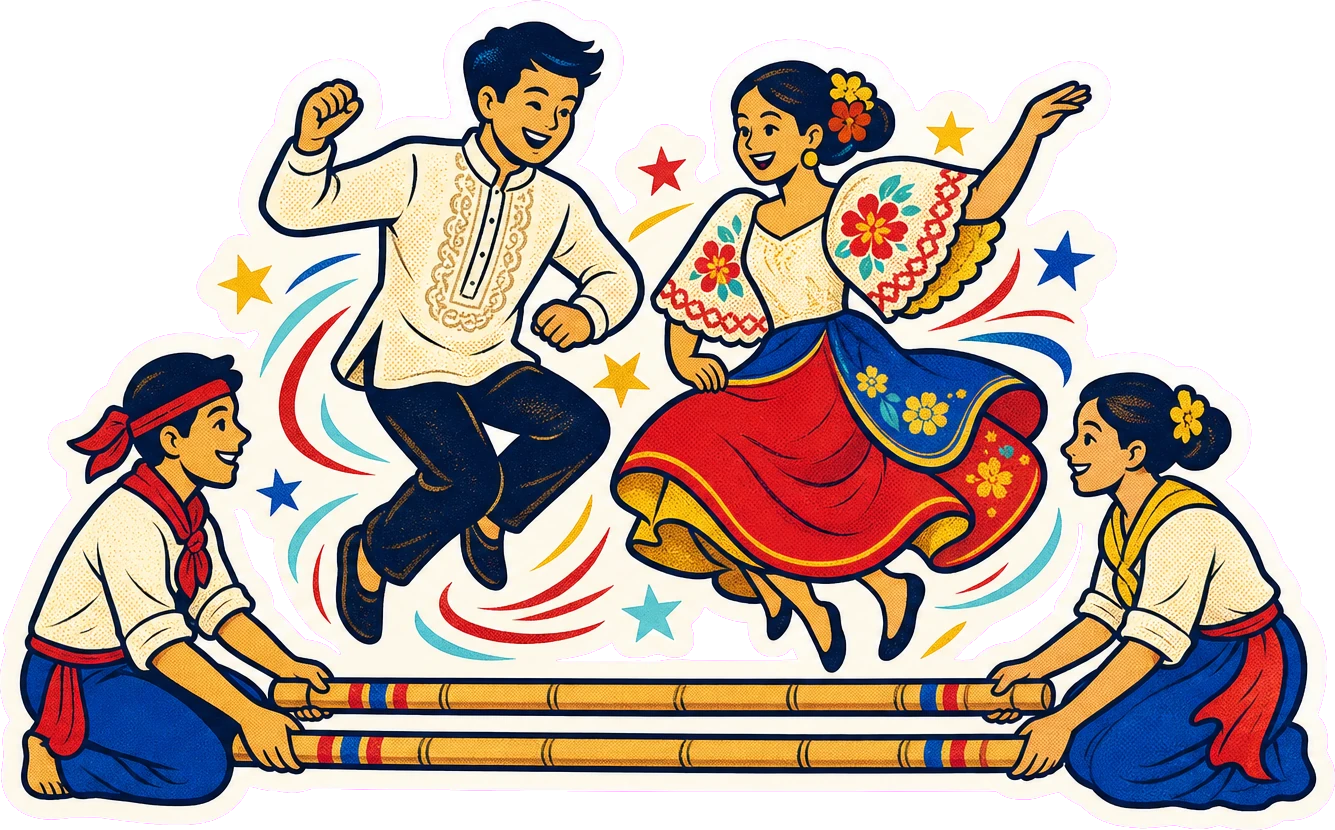
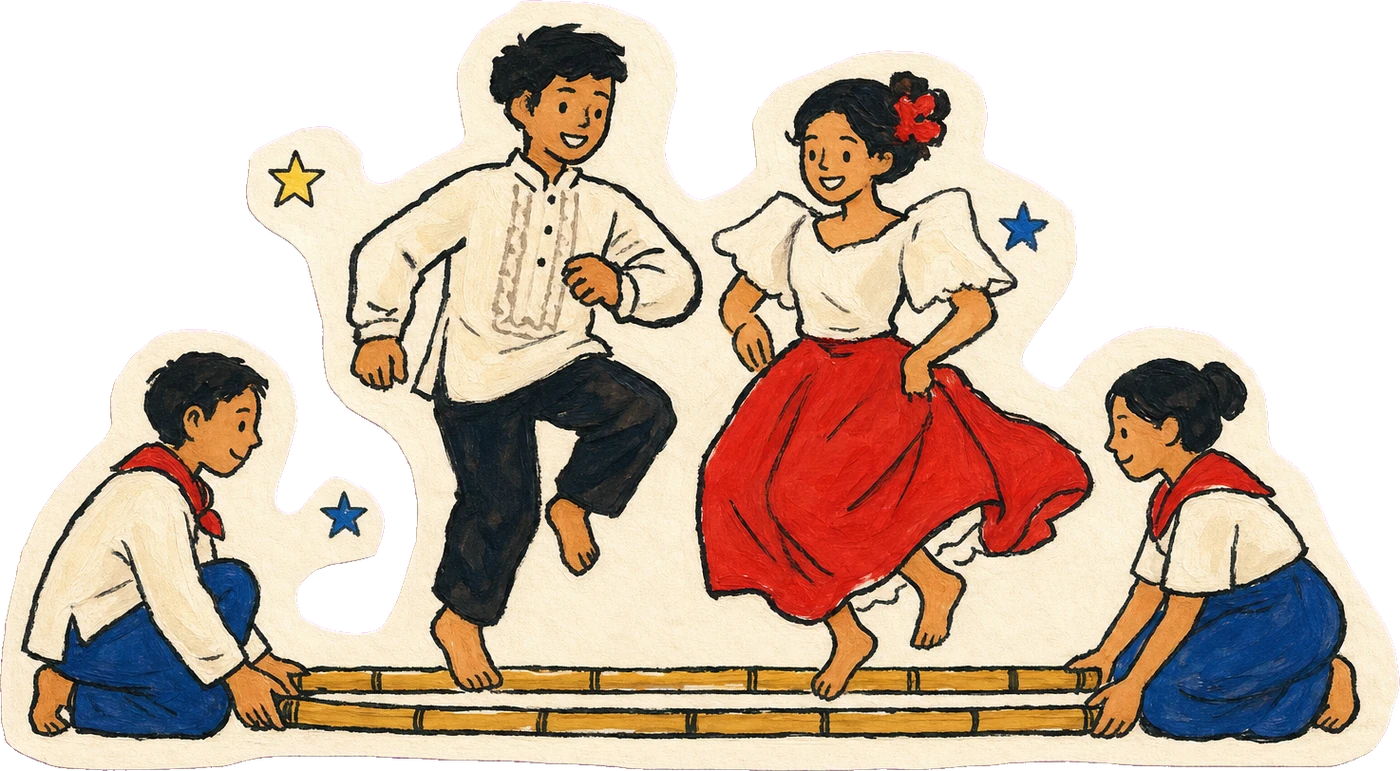
Swap the sticker art for hand-painted versions

diff --git a/index.html b/index.html
@@ -299,7 +299,7 @@
         <div class="bento">
           <article class="cell cell-culture tilt" data-reveal>
             <span class="tape tape-pink" aria-hidden="true"></span>
-            <img src="assets/img/tinikling.webp" alt="Illustration of two dancers hopping between bamboo poles in tinikling" loading="lazy" width="1335" height="830">
+            <img src="assets/img/tinikling.webp" alt="Illustration of two dancers hopping between bamboo poles in tinikling" loading="lazy" width="1400" height="771">
             <div class="cell-text">
               <h3>Culture Night</h3>
               <p>Our student-run culture show. Traditional dances, modern sets, and one story told across a whole stage.</p>
@@ -339,7 +339,7 @@
 
           <article class="cell cell-give tilt" data-reveal style="--d:.16s">
             <span class="tape tape-green" aria-hidden="true"></span>
-            <img src="assets/img/halohalo.webp" alt="" loading="lazy" width="501" height="820">
+            <img src="assets/img/halohalo.webp" alt="" loading="lazy" width="427" height="820">
             <div class="cell-text">
               <h3>Service + fundraising</h3>
               <p>Giving back, often deliciously. Think Oh! Mochi nights and bake sales.</p>

diff --git a/css/style.css b/css/style.css
@@ -1235,7 +1235,7 @@ main > .council {
 .cell p { margin-top: .6rem; line-height: 1.45; }
 
 .cell-culture { grid-column: span 7; min-height: 560px; background: radial-gradient(70% 60% at 50% 28%, #6a4466, transparent 70%), var(--plum-2); color: var(--cream); overflow: hidden; }
-.cell-culture img { position: absolute; top: 6%; left: 50%; width: min(84%, 580px); translate: -50% 0; transition: scale .7s var(--ease), rotate .7s var(--ease); }
+.cell-culture img { position: absolute; top: 9%; left: 50%; width: min(90%, 620px); translate: -50% 0; transition: scale .7s var(--ease), rotate .7s var(--ease); }
 .cell-culture:hover img { scale: 1.05; rotate: -1.5deg; }
 .cell-culture h3 { color: var(--pink); }
 
@@ -1471,8 +1471,8 @@ main > .council {
 
   .cell-d7, .cell-sports { grid-column: span 12; }
   .cell { min-height: 300px; }
-  .cell-culture { min-height: 440px; }
-  .cell-culture img { width: 92%; }
+  .cell-culture { min-height: 410px; }
+  .cell-culture img { width: 96%; top: 7%; }
   .cell-dance { min-height: 440px; }
   .foot-grid { grid-template-columns: 1fr 1fr; }
 }
